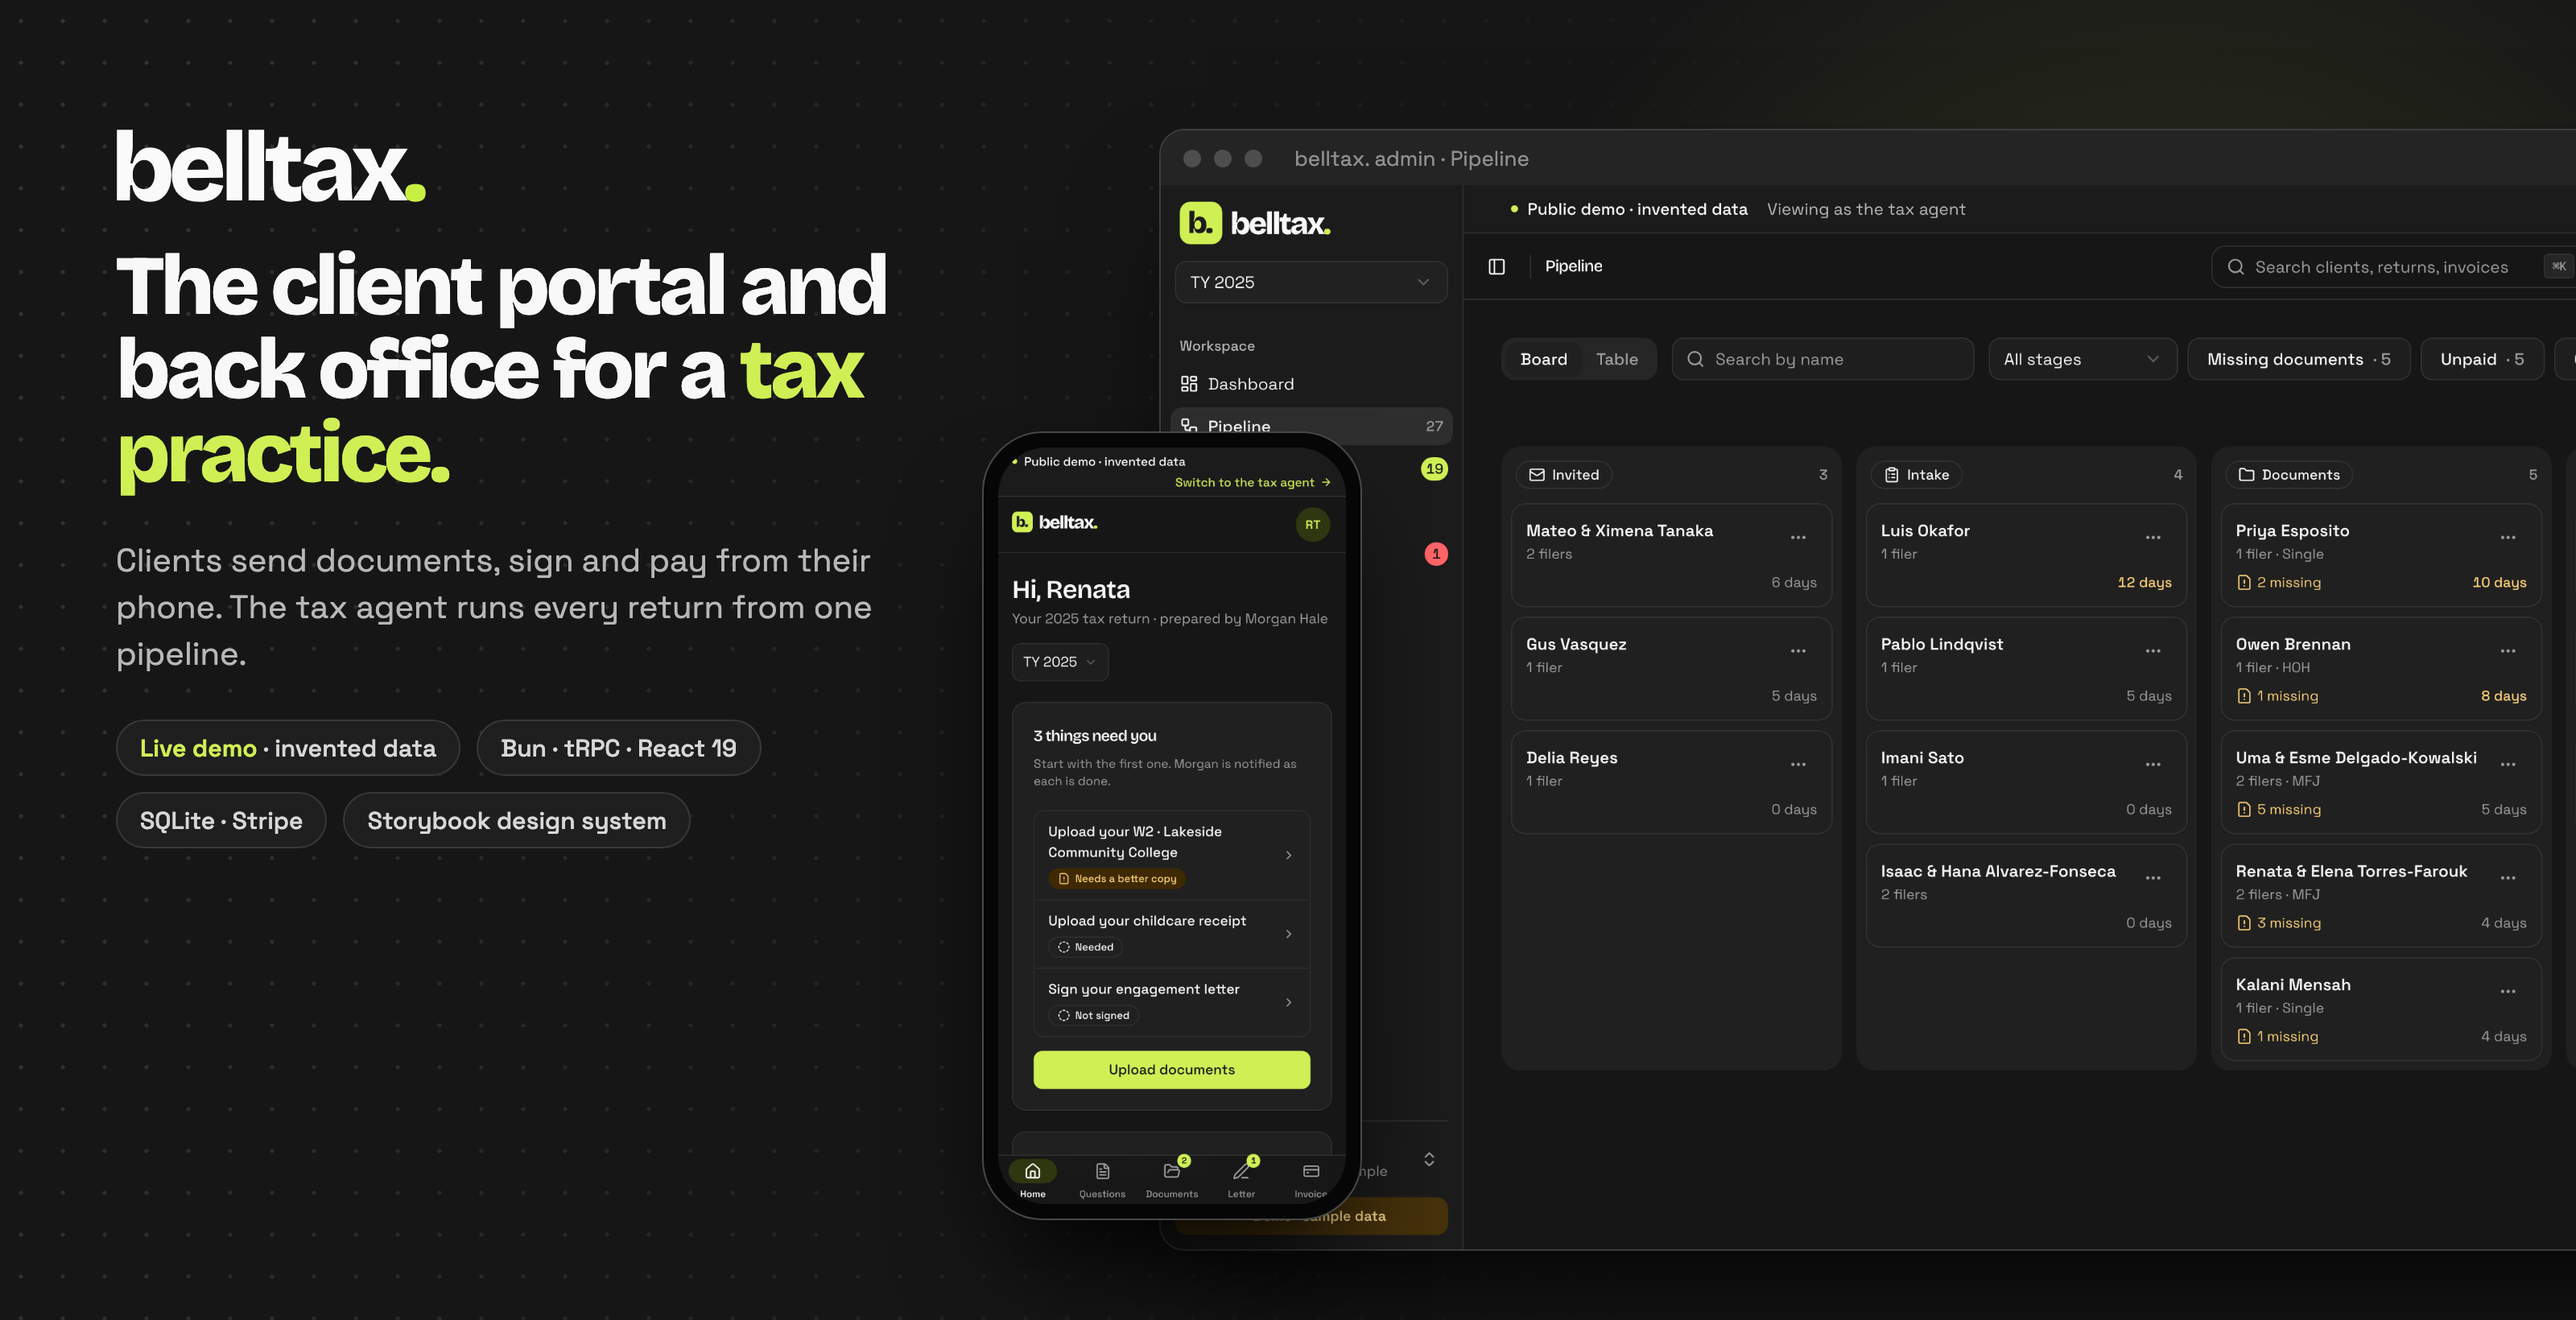
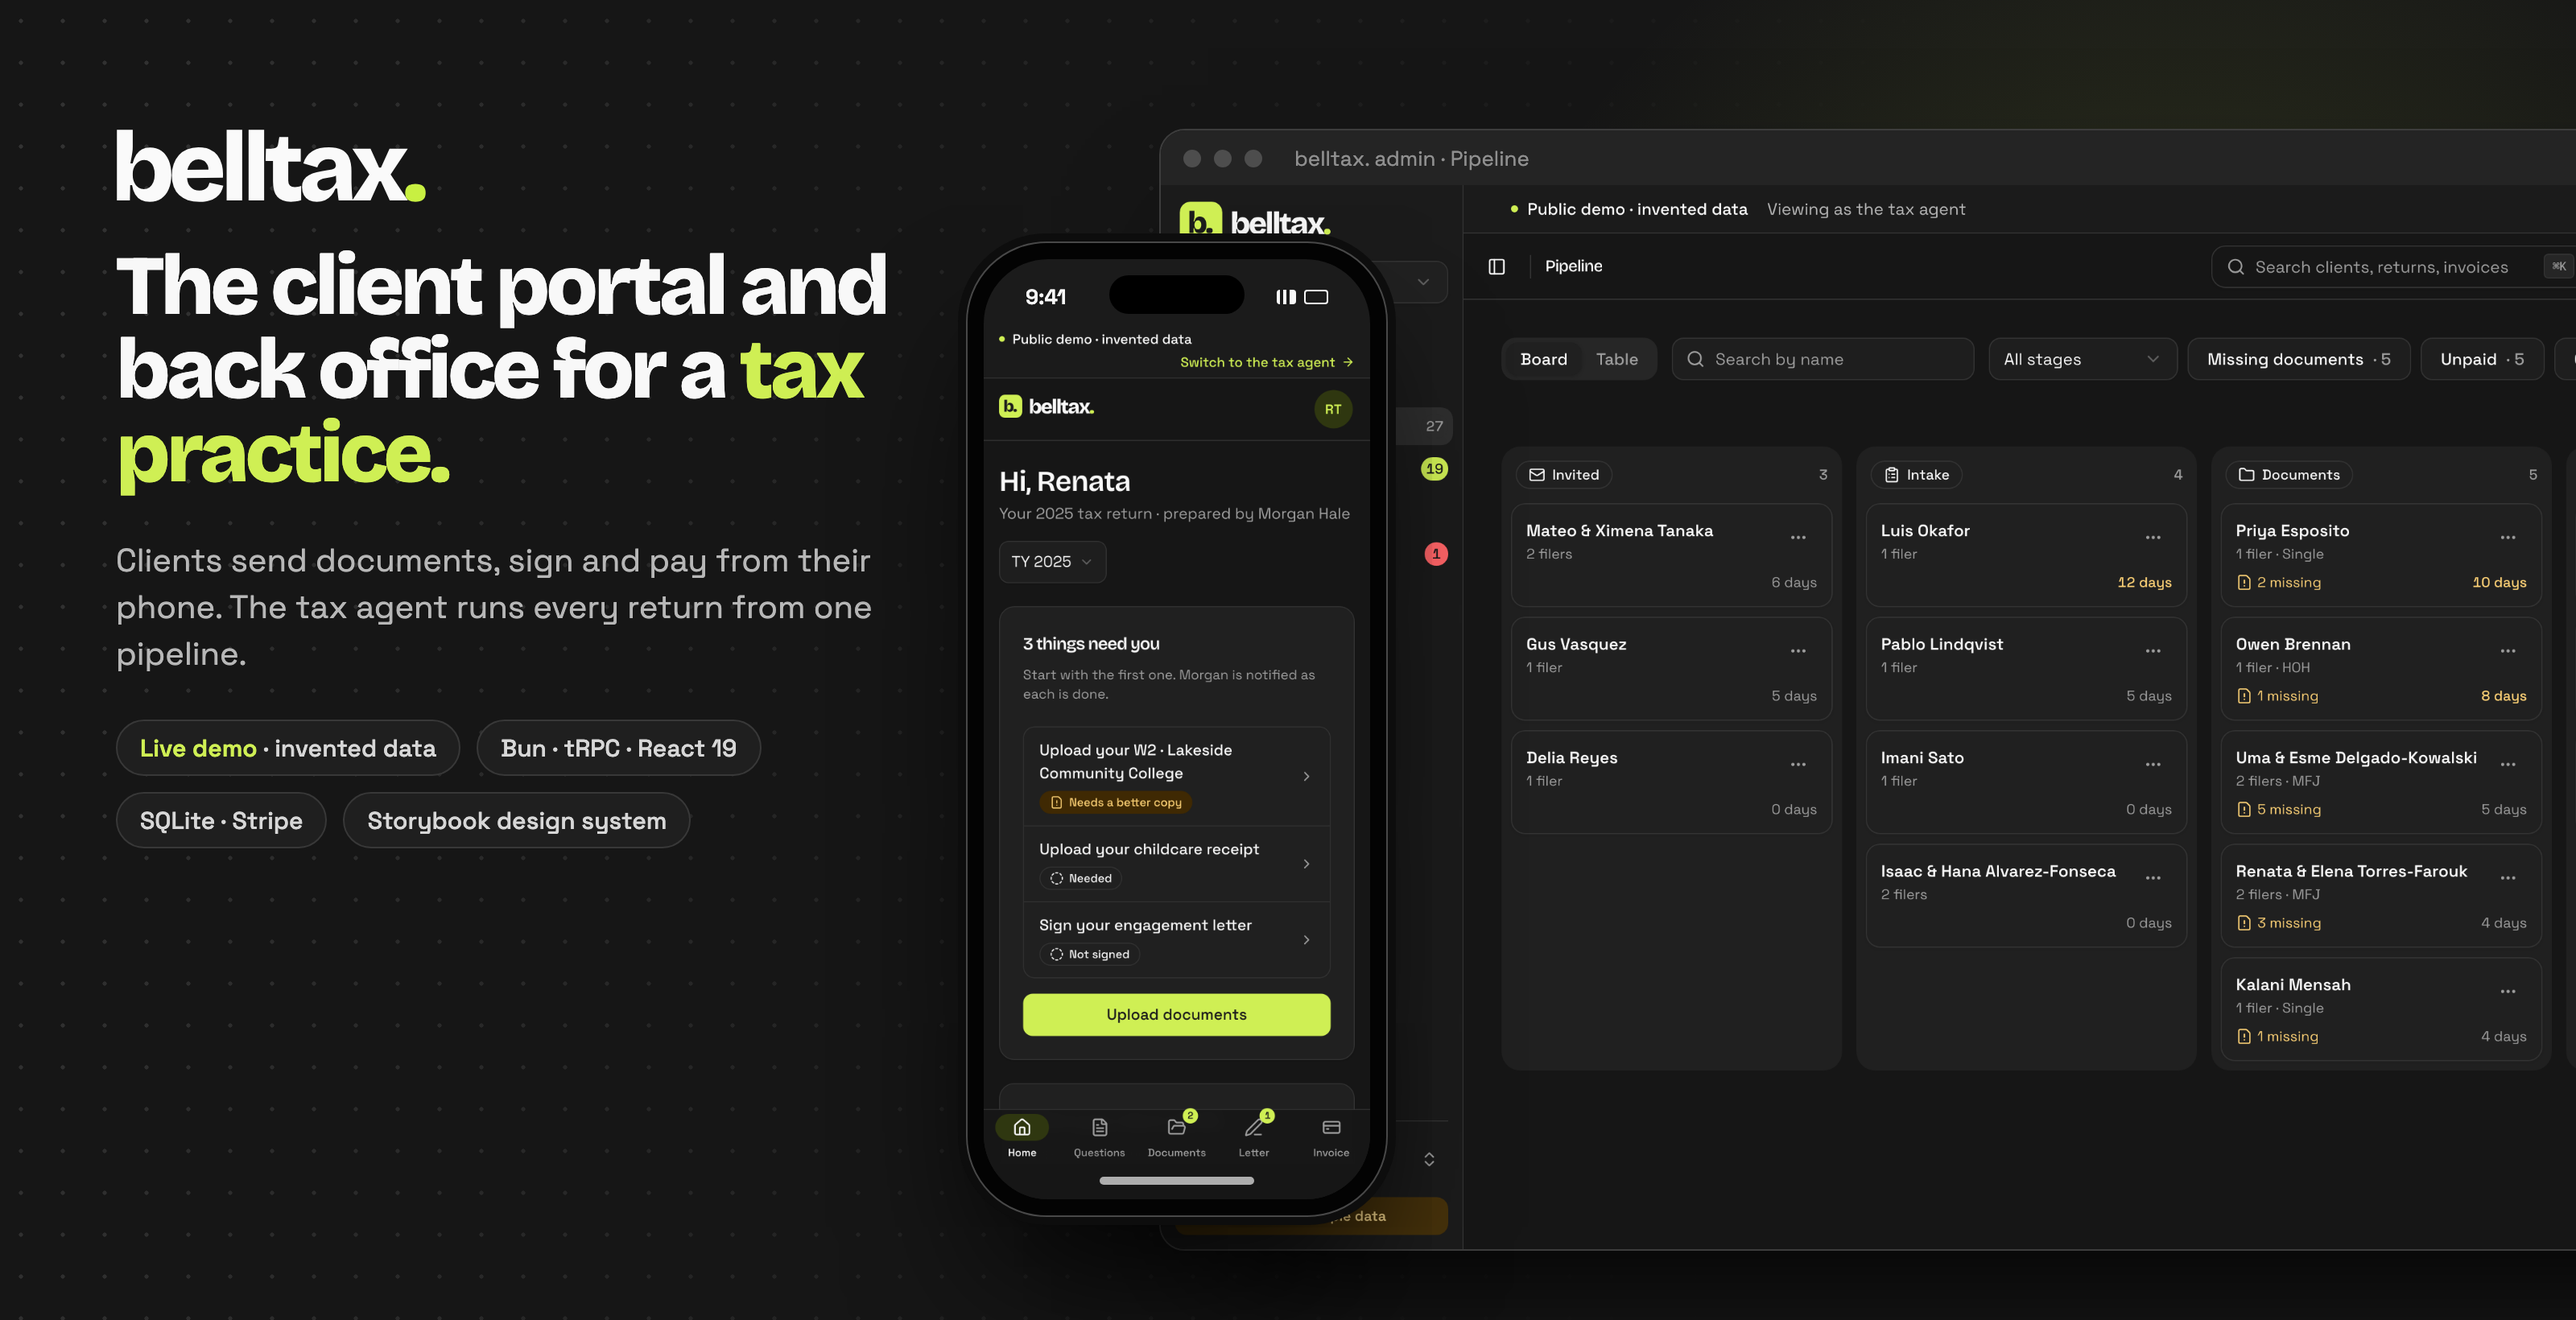
Cleaner phone frame on the README cover: status bar, home indicator and matched corners

Changed region(s): [[0.375, 0.1555, 0.5625, 0.9329]]

diff --git a/scripts/cover.ts b/scripts/cover.ts
@@ -31,8 +31,17 @@ p { font-size: 20px; line-height: 1.45; color: oklch(0.78 0 0); }
 .bar i { width: 11px; height: 11px; border-radius: 50%; background: oklch(0.42 0 0); }
 .bar span { margin-left: 12px; font-size: 13px; color: oklch(0.65 0 0); }
 .window img { display: block; width: 100%; }
-.phone { position: absolute; left: 610px; top: 268px; width: 236px; border-radius: 38px; padding: 9px; background: oklch(0.12 0 0); border: 1px solid oklch(0.4 0 0); box-shadow: 0 40px 70px -20px black; }
-.phone img { display: block; width: 100%; border-radius: 30px; }
+/* A phone with its own status bar and home indicator, so the screenshot's top and bottom never meet the curve. */
+.phone { position: absolute; left: 600px; top: 150px; width: 262px; border-radius: 50px; padding: 10px; background: oklch(0.1 0 0); border: 1.5px solid oklch(0.4 0 0); box-shadow: 0 0 0 5px oklch(0.16 0 0), 0 50px 90px -20px black; }
+.screen { border-radius: 40px; overflow: hidden; background: oklch(0.22 0 0); }
+.status { position: relative; height: 40px; display: flex; align-items: center; justify-content: space-between; padding: 6px 26px 0; font: 600 13px "Space", sans-serif; color: oklch(0.98 0 0); }
+.status .island { position: absolute; left: 50%; top: 10px; width: 84px; height: 24px; margin-left: -42px; border-radius: 999px; background: black; }
+.status .icons { display: flex; gap: 5px; align-items: center; }
+.status .icons i { display: block; width: 15px; height: 9px; border-radius: 2px; border: 1.5px solid currentColor; }
+.status .icons i:first-child { width: 12px; border: 0; background: linear-gradient(to right, currentColor 0 2px, transparent 2px 4px, currentColor 4px 6px, transparent 6px 8px, currentColor 8px 10px); height: 9px; }
+.screen img { display: block; width: 100%; }
+.home { height: 22px; display: grid; place-items: center; background: oklch(0.2 0 0); }
+.home i { width: 96px; height: 5px; border-radius: 999px; background: oklch(0.95 0 0 / 0.7); }
 </style></head><body>
 <div class="grid"></div><div class="glow"></div>
 <div class="copy">
@@ -47,7 +56,7 @@ p { font-size: 20px; line-height: 1.45; color: oklch(0.78 0 0); }
   </div>
 </div>
 <div class="window"><div class="bar"><i></i><i></i><i></i><span>belltax. admin · Pipeline</span></div><img src="${img("admin-pipeline")}" alt=""></div>
-<div class="phone"><img src="${img("portal-home")}" alt=""></div>
+<div class="phone"><div class="screen"><div class="status"><span>9:41</span><span class="island"></span><span class="icons"><i></i><i></i></span></div><img src="${img("portal-home")}" alt=""><div class="home"><i></i></div></div></div>
 </body></html>`;
 
 const browser = await chromium.launch(process.env.CHROMIUM_PATH ? { executablePath: process.env.CHROMIUM_PATH } : {});
